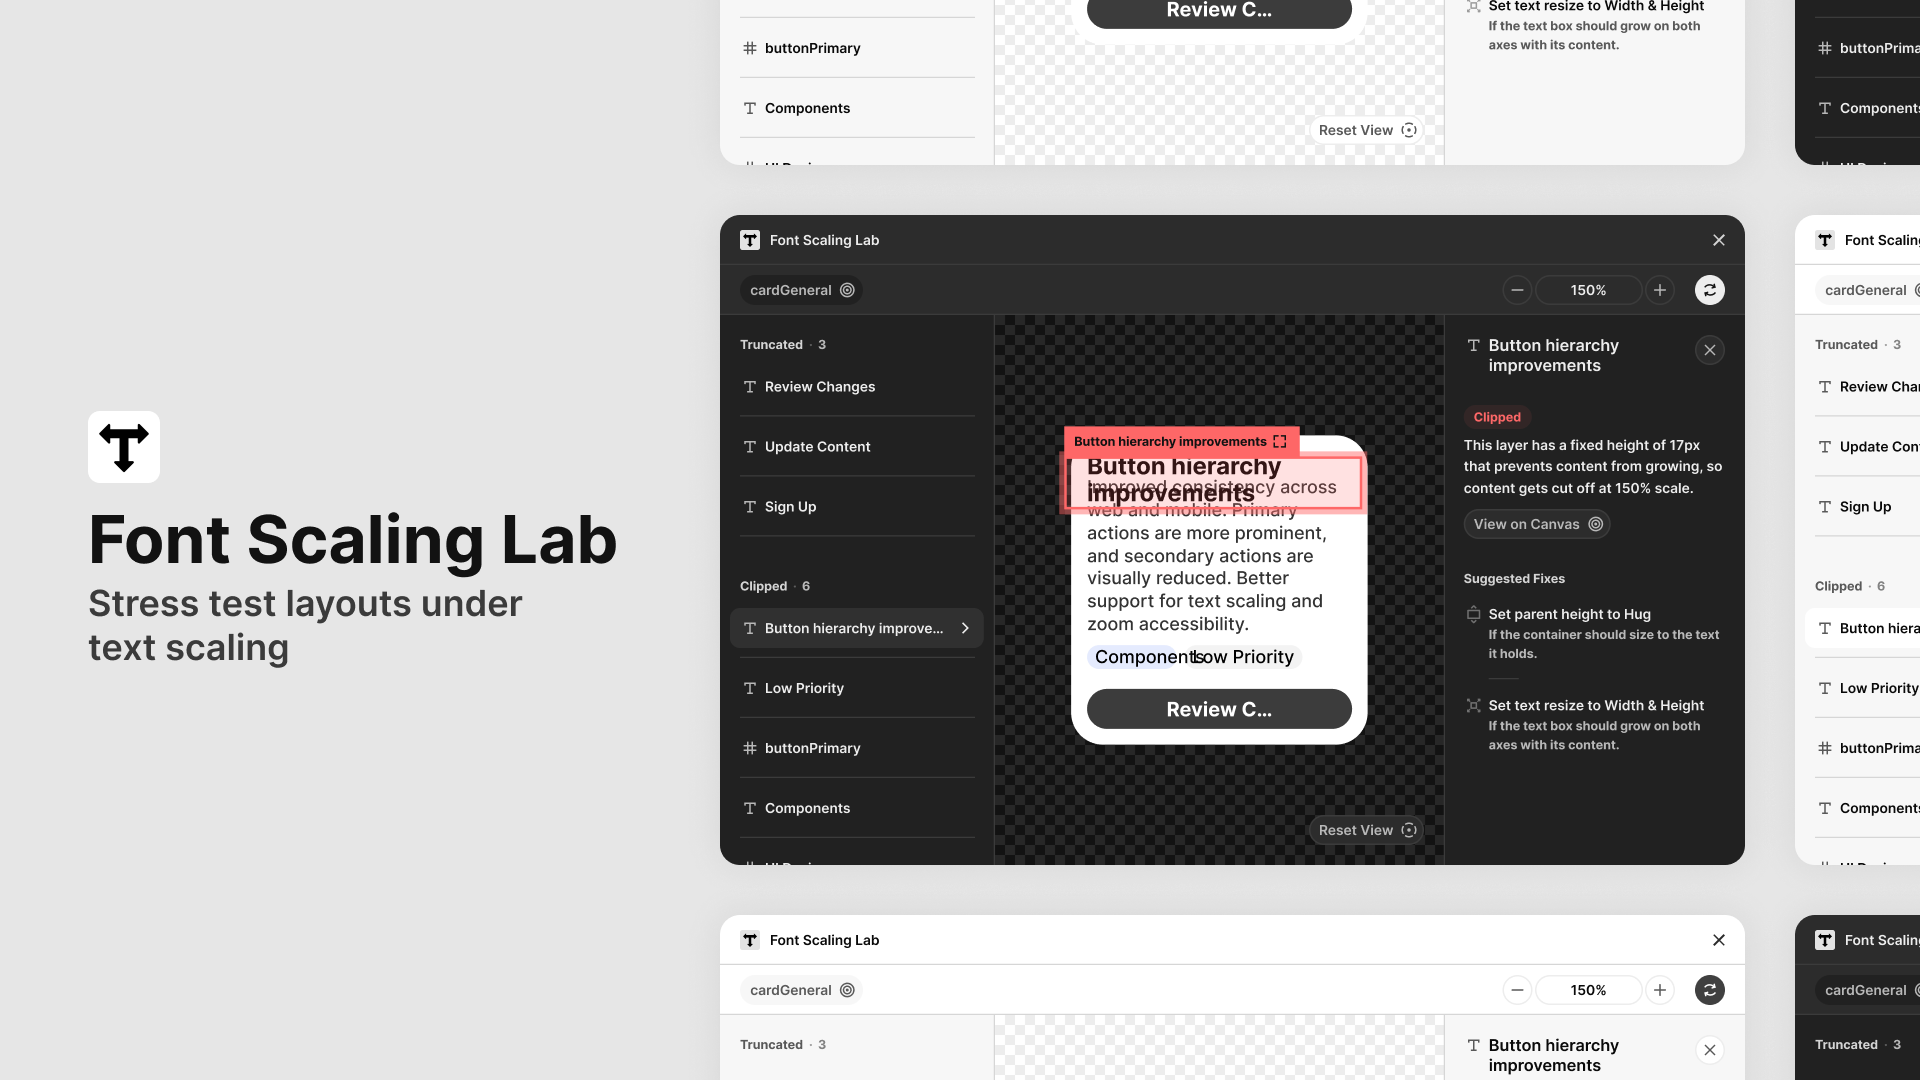
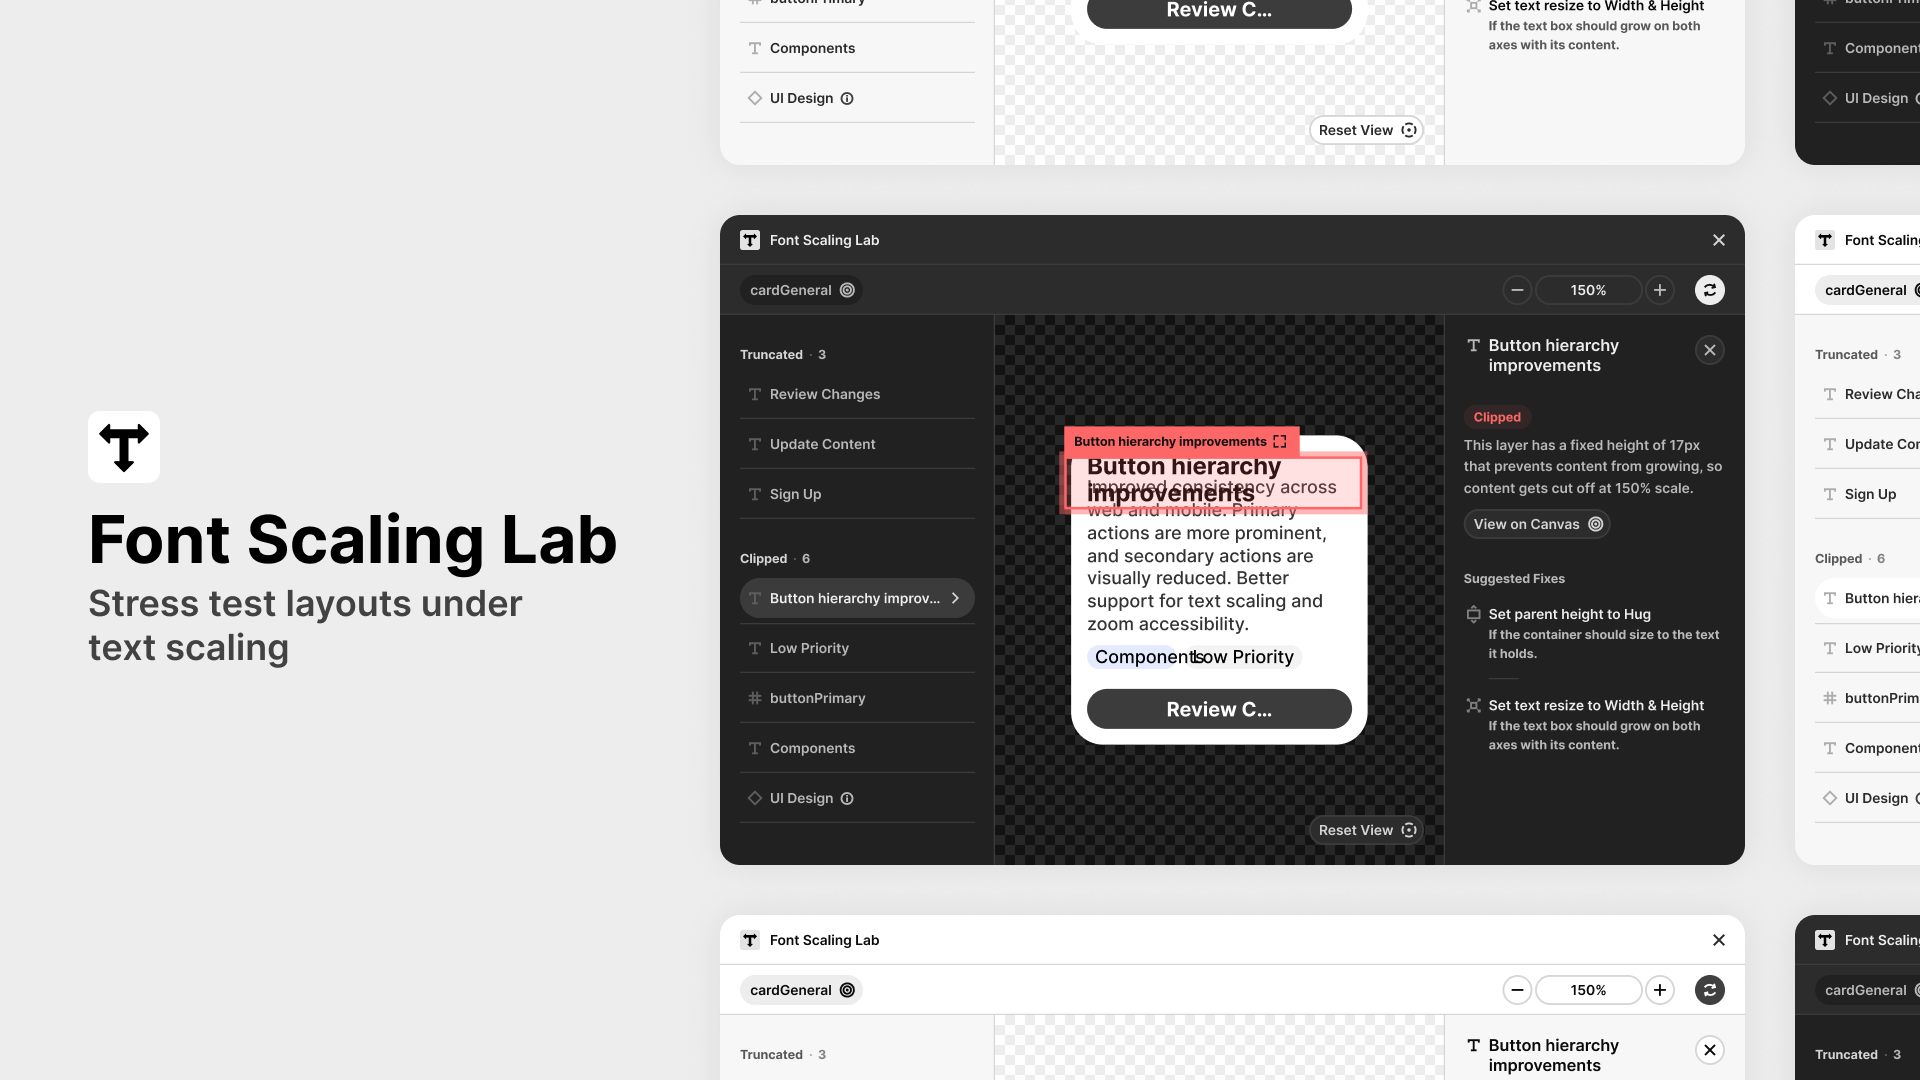
docs: add the plugin preview images to the README

diff --git a/README.md b/README.md
@@ -35,6 +35,8 @@ connect and how changes propagate through your files.
 
 ![Impact Atlas](docs/impact-atlas.png)
 
+![Impact Atlas preview](docs/impact-atlas-preview.png)
+
 ---
 
 ## Tokens to Ink
@@ -76,6 +78,8 @@ test how your typography behaves beyond fixed assumptions.
 - Suggests targeted fixes for each detected issue.
 
 ![Font Scaling Lab](docs/font-scaling-lab.png)
+
+![Font Scaling Lab preview](docs/font-scaling-lab-preview.png)
 
 ---
 
